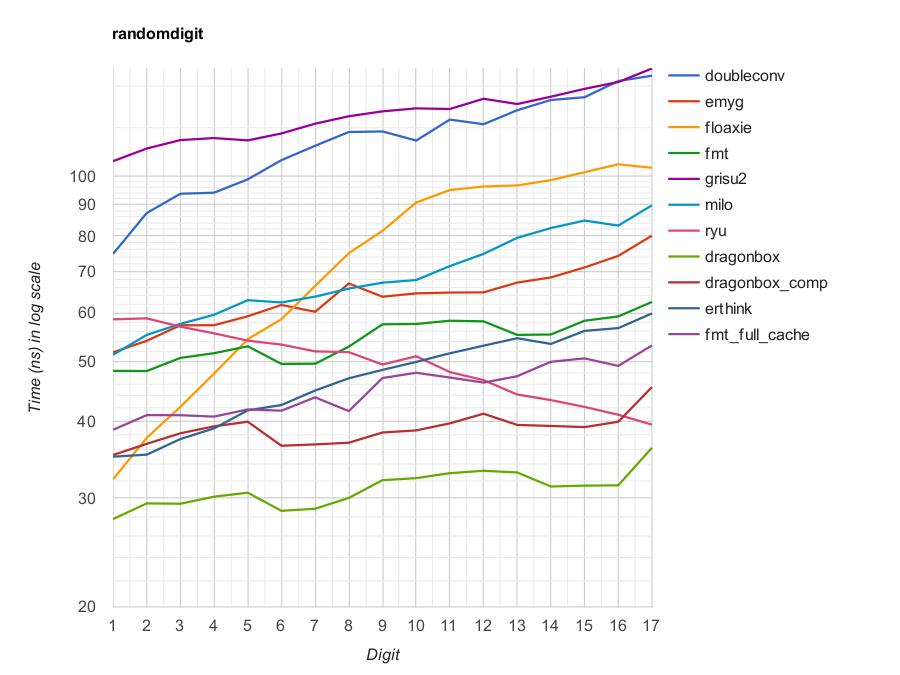
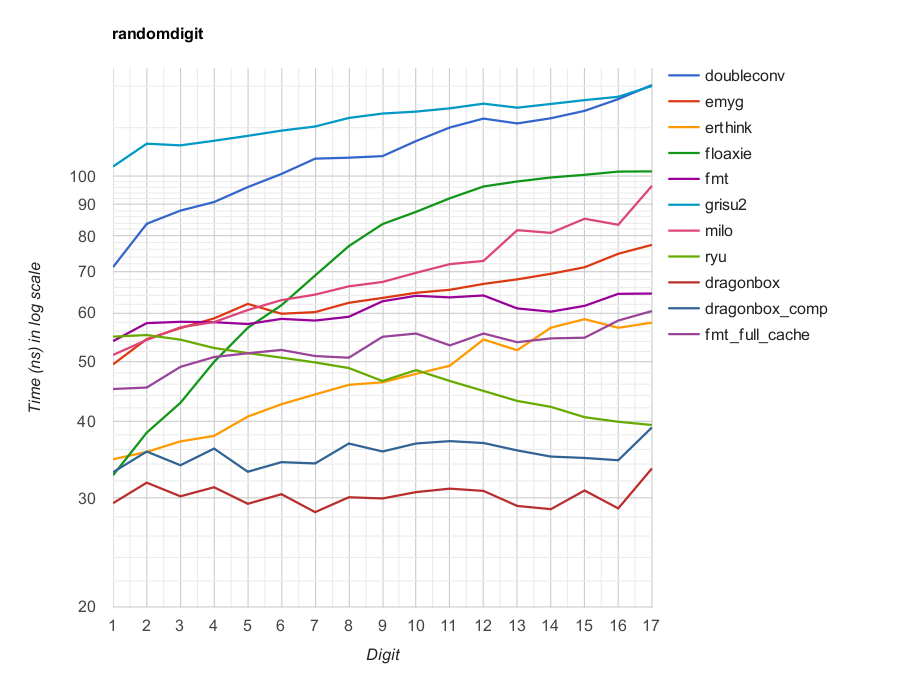
Rerun Milo's benchmark

diff --git a/other_files/unknown_win64_vc2019.html b/other_files/unknown_win64_vc2019.html
@@ -329,194 +329,194 @@ body { padding-top: 70px; }
 <h2>Source CSV</h2>
 <textarea id="textInput" class="form-control" rows="5" readonly>
   Type,Function,Digit,Time(ns)
-  randomdigit,doubleconv,1,78.248000
-  randomdigit,doubleconv,2,87.786000
-  randomdigit,doubleconv,3,96.891000
-  randomdigit,doubleconv,4,100.587000
-  randomdigit,doubleconv,5,107.253000
-  randomdigit,doubleconv,6,112.505000
-  randomdigit,doubleconv,7,110.873000
-  randomdigit,doubleconv,8,121.599000
-  randomdigit,doubleconv,9,127.222000
-  randomdigit,doubleconv,10,120.216000
-  randomdigit,doubleconv,11,122.378000
-  randomdigit,doubleconv,12,126.211000
-  randomdigit,doubleconv,13,134.482000
-  randomdigit,doubleconv,14,130.679000
-  randomdigit,doubleconv,15,137.201000
-  randomdigit,doubleconv,16,135.868000
-  randomdigit,doubleconv,17,147.426000
-  randomdigit,emyg,1,54.607000
-  randomdigit,emyg,2,60.282000
-  randomdigit,emyg,3,64.284000
-  randomdigit,emyg,4,67.421000
-  randomdigit,emyg,5,71.130000
-  randomdigit,emyg,6,71.934000
-  randomdigit,emyg,7,72.995000
-  randomdigit,emyg,8,74.277000
-  randomdigit,emyg,9,71.909000
-  randomdigit,emyg,10,72.436000
-  randomdigit,emyg,11,76.755000
-  randomdigit,emyg,12,81.028000
-  randomdigit,emyg,13,82.898000
-  randomdigit,emyg,14,84.870000
-  randomdigit,emyg,15,86.607000
-  randomdigit,emyg,16,85.906000
-  randomdigit,emyg,17,89.630000
-  randomdigit,floaxie,1,30.275000
-  randomdigit,floaxie,2,37.139000
-  randomdigit,floaxie,3,41.356000
-  randomdigit,floaxie,4,47.739000
-  randomdigit,floaxie,5,54.310000
-  randomdigit,floaxie,6,60.585000
-  randomdigit,floaxie,7,67.047000
-  randomdigit,floaxie,8,75.157000
-  randomdigit,floaxie,9,81.545000
-  randomdigit,floaxie,10,91.129000
-  randomdigit,floaxie,11,95.449000
-  randomdigit,floaxie,12,97.786000
-  randomdigit,floaxie,13,98.923000
-  randomdigit,floaxie,14,102.212000
-  randomdigit,floaxie,15,104.720000
-  randomdigit,floaxie,16,106.440000
-  randomdigit,floaxie,17,107.640000
-  randomdigit,fmt,1,50.081000
-  randomdigit,fmt,2,52.360000
-  randomdigit,fmt,3,54.191000
-  randomdigit,fmt,4,53.228000
-  randomdigit,fmt,5,55.436000
-  randomdigit,fmt,6,55.432000
-  randomdigit,fmt,7,56.193000
-  randomdigit,fmt,8,56.585000
-  randomdigit,fmt,9,61.277000
-  randomdigit,fmt,10,61.476000
-  randomdigit,fmt,11,62.170000
-  randomdigit,fmt,12,62.040000
-  randomdigit,fmt,13,61.326000
-  randomdigit,fmt,14,60.847000
-  randomdigit,fmt,15,61.845000
-  randomdigit,fmt,16,61.785000
-  randomdigit,fmt,17,62.770000
-  randomdigit,grisu2,1,107.181000
-  randomdigit,grisu2,2,122.045000
-  randomdigit,grisu2,3,123.263000
-  randomdigit,grisu2,4,126.745000
-  randomdigit,grisu2,5,129.433000
-  randomdigit,grisu2,6,133.902000
-  randomdigit,grisu2,7,136.087000
-  randomdigit,grisu2,8,133.842000
-  randomdigit,grisu2,9,133.445000
-  randomdigit,grisu2,10,136.056000
-  randomdigit,grisu2,11,142.027000
-  randomdigit,grisu2,12,145.407000
-  randomdigit,grisu2,13,148.398000
-  randomdigit,grisu2,14,148.463000
-  randomdigit,grisu2,15,152.806000
-  randomdigit,grisu2,16,148.089000
-  randomdigit,grisu2,17,161.131000
-  randomdigit,milo,1,56.954000
-  randomdigit,milo,2,59.823000
-  randomdigit,milo,3,63.965000
-  randomdigit,milo,4,67.376000
-  randomdigit,milo,5,70.089000
-  randomdigit,milo,6,71.473000
-  randomdigit,milo,7,73.496000
-  randomdigit,milo,8,75.241000
-  randomdigit,milo,9,77.479000
-  randomdigit,milo,10,79.484000
-  randomdigit,milo,11,81.746000
-  randomdigit,milo,12,84.608000
-  randomdigit,milo,13,83.937000
-  randomdigit,milo,14,90.417000
-  randomdigit,milo,15,91.714000
-  randomdigit,milo,16,93.463000
-  randomdigit,milo,17,100.931000
-  randomdigit,ryu,1,63.494000
-  randomdigit,ryu,2,65.584000
-  randomdigit,ryu,3,66.304000
-  randomdigit,ryu,4,67.621000
-  randomdigit,ryu,5,67.229000
-  randomdigit,ryu,6,64.859000
-  randomdigit,ryu,7,57.722000
-  randomdigit,ryu,8,55.798000
-  randomdigit,ryu,9,53.404000
-  randomdigit,ryu,10,53.931000
-  randomdigit,ryu,11,50.790000
-  randomdigit,ryu,12,49.859000
-  randomdigit,ryu,13,45.737000
-  randomdigit,ryu,14,44.523000
-  randomdigit,ryu,15,43.002000
-  randomdigit,ryu,16,41.881000
-  randomdigit,ryu,17,41.513000
-  randomdigit,dragonbox,1,38.834000
-  randomdigit,dragonbox,2,41.602000
-  randomdigit,dragonbox,3,41.144000
-  randomdigit,dragonbox,4,41.785000
-  randomdigit,dragonbox,5,41.222000
-  randomdigit,dragonbox,6,40.468000
-  randomdigit,dragonbox,7,39.892000
-  randomdigit,dragonbox,8,40.635000
-  randomdigit,dragonbox,9,43.644000
-  randomdigit,dragonbox,10,46.040000
-  randomdigit,dragonbox,11,43.418000
-  randomdigit,dragonbox,12,43.224000
-  randomdigit,dragonbox,13,40.895000
-  randomdigit,dragonbox,14,40.120000
-  randomdigit,dragonbox,15,40.031000
-  randomdigit,dragonbox,16,39.571000
-  randomdigit,dragonbox,17,41.982000
-  randomdigit,dragonbox_comp,1,52.065000
-  randomdigit,dragonbox_comp,2,51.120000
-  randomdigit,dragonbox_comp,3,50.225000
-  randomdigit,dragonbox_comp,4,50.120000
-  randomdigit,dragonbox_comp,5,52.864000
-  randomdigit,dragonbox_comp,6,53.753000
-  randomdigit,dragonbox_comp,7,53.303000
-  randomdigit,dragonbox_comp,8,53.987000
-  randomdigit,dragonbox_comp,9,54.235000
-  randomdigit,dragonbox_comp,10,52.743000
-  randomdigit,dragonbox_comp,11,54.604000
-  randomdigit,dragonbox_comp,12,50.722000
-  randomdigit,dragonbox_comp,13,49.756000
-  randomdigit,dragonbox_comp,14,49.975000
-  randomdigit,dragonbox_comp,15,50.353000
-  randomdigit,dragonbox_comp,16,49.303000
-  randomdigit,dragonbox_comp,17,50.718000
-  randomdigit,erthink,1,36.401000
-  randomdigit,erthink,2,36.241000
-  randomdigit,erthink,3,38.794000
-  randomdigit,erthink,4,41.113000
-  randomdigit,erthink,5,43.452000
-  randomdigit,erthink,6,45.907000
-  randomdigit,erthink,7,45.254000
-  randomdigit,erthink,8,48.015000
-  randomdigit,erthink,9,49.493000
-  randomdigit,erthink,10,51.155000
-  randomdigit,erthink,11,51.849000
-  randomdigit,erthink,12,54.308000
-  randomdigit,erthink,13,56.612000
-  randomdigit,erthink,14,58.143000
-  randomdigit,erthink,15,60.695000
-  randomdigit,erthink,16,61.836000
-  randomdigit,erthink,17,64.775000
-  randomdigit,fmt_full_cache,1,44.309000
-  randomdigit,fmt_full_cache,2,44.400000
-  randomdigit,fmt_full_cache,3,44.033000
-  randomdigit,fmt_full_cache,4,44.729000
-  randomdigit,fmt_full_cache,5,46.192000
-  randomdigit,fmt_full_cache,6,45.905000
-  randomdigit,fmt_full_cache,7,47.828000
-  randomdigit,fmt_full_cache,8,48.575000
-  randomdigit,fmt_full_cache,9,51.662000
-  randomdigit,fmt_full_cache,10,52.107000
-  randomdigit,fmt_full_cache,11,52.633000
-  randomdigit,fmt_full_cache,12,52.016000
-  randomdigit,fmt_full_cache,13,52.989000
-  randomdigit,fmt_full_cache,14,53.807000
-  randomdigit,fmt_full_cache,15,52.576000
-  randomdigit,fmt_full_cache,16,53.077000
-  randomdigit,fmt_full_cache,17,58.567000
-   </textarea>
+randomdigit,doubleconv,1,71.223000
+randomdigit,doubleconv,2,83.739000
+randomdigit,doubleconv,3,87.977000
+randomdigit,doubleconv,4,90.844000
+randomdigit,doubleconv,5,96.071000
+randomdigit,doubleconv,6,100.920000
+randomdigit,doubleconv,7,106.860000
+randomdigit,doubleconv,8,107.243000
+randomdigit,doubleconv,9,107.882000
+randomdigit,doubleconv,10,114.161000
+randomdigit,doubleconv,11,120.089000
+randomdigit,doubleconv,12,124.157000
+randomdigit,doubleconv,13,121.921000
+randomdigit,doubleconv,14,124.308000
+randomdigit,doubleconv,15,127.801000
+randomdigit,doubleconv,16,133.545000
+randomdigit,doubleconv,17,140.764000
+randomdigit,emyg,1,49.488000
+randomdigit,emyg,2,54.384000
+randomdigit,emyg,3,56.676000
+randomdigit,emyg,4,58.776000
+randomdigit,emyg,5,62.045000
+randomdigit,emyg,6,59.798000
+randomdigit,emyg,7,60.171000
+randomdigit,emyg,8,62.302000
+randomdigit,emyg,9,63.449000
+randomdigit,emyg,10,64.685000
+randomdigit,emyg,11,65.412000
+randomdigit,emyg,12,66.872000
+randomdigit,emyg,13,68.013000
+randomdigit,emyg,14,69.450000
+randomdigit,emyg,15,71.172000
+randomdigit,emyg,16,74.847000
+randomdigit,emyg,17,77.391000
+randomdigit,erthink,1,34.692000
+randomdigit,erthink,2,35.652000
+randomdigit,erthink,3,37.090000
+randomdigit,erthink,4,37.854000
+randomdigit,erthink,5,40.699000
+randomdigit,erthink,6,42.624000
+randomdigit,erthink,7,44.213000
+randomdigit,erthink,8,45.829000
+randomdigit,erthink,9,46.268000
+randomdigit,erthink,10,47.757000
+randomdigit,erthink,11,49.229000
+randomdigit,erthink,12,54.313000
+randomdigit,erthink,13,52.171000
+randomdigit,erthink,14,56.760000
+randomdigit,erthink,15,58.601000
+randomdigit,erthink,16,56.738000
+randomdigit,erthink,17,57.844000
+randomdigit,floaxie,1,32.675000
+randomdigit,floaxie,2,38.321000
+randomdigit,floaxie,3,42.846000
+randomdigit,floaxie,4,49.954000
+randomdigit,floaxie,5,56.737000
+randomdigit,floaxie,6,61.745000
+randomdigit,floaxie,7,69.012000
+randomdigit,floaxie,8,77.025000
+randomdigit,floaxie,9,83.648000
+randomdigit,floaxie,10,87.588000
+randomdigit,floaxie,11,92.134000
+randomdigit,floaxie,12,96.296000
+randomdigit,floaxie,13,98.109000
+randomdigit,floaxie,14,99.591000
+randomdigit,floaxie,15,100.592000
+randomdigit,floaxie,16,101.807000
+randomdigit,floaxie,17,101.887000
+randomdigit,fmt,1,53.977000
+randomdigit,fmt,2,57.743000
+randomdigit,fmt,3,58.027000
+randomdigit,fmt,4,57.938000
+randomdigit,fmt,5,57.543000
+randomdigit,fmt,6,58.663000
+randomdigit,fmt,7,58.296000
+randomdigit,fmt,8,59.124000
+randomdigit,fmt,9,62.657000
+randomdigit,fmt,10,63.963000
+randomdigit,fmt,11,63.576000
+randomdigit,fmt,12,64.037000
+randomdigit,fmt,13,61.003000
+randomdigit,fmt,14,60.267000
+randomdigit,fmt,15,61.596000
+randomdigit,fmt,16,64.429000
+randomdigit,fmt,17,64.504000
+randomdigit,grisu2,1,103.766000
+randomdigit,grisu2,2,113.021000
+randomdigit,grisu2,3,112.313000
+randomdigit,grisu2,4,114.278000
+randomdigit,grisu2,5,116.382000
+randomdigit,grisu2,6,118.683000
+randomdigit,grisu2,7,120.528000
+randomdigit,grisu2,8,124.457000
+randomdigit,grisu2,9,126.515000
+randomdigit,grisu2,10,127.444000
+randomdigit,grisu2,11,129.016000
+randomdigit,grisu2,12,131.285000
+randomdigit,grisu2,13,129.324000
+randomdigit,grisu2,14,131.143000
+randomdigit,grisu2,15,133.030000
+randomdigit,grisu2,16,134.716000
+randomdigit,grisu2,17,140.260000
+randomdigit,milo,1,51.258000
+randomdigit,milo,2,54.217000
+randomdigit,milo,3,56.843000
+randomdigit,milo,4,57.965000
+randomdigit,milo,5,60.638000
+randomdigit,milo,6,62.935000
+randomdigit,milo,7,64.241000
+randomdigit,milo,8,66.264000
+randomdigit,milo,9,67.355000
+randomdigit,milo,10,69.715000
+randomdigit,milo,11,72.008000
+randomdigit,milo,12,72.875000
+randomdigit,milo,13,81.763000
+randomdigit,milo,14,80.948000
+randomdigit,milo,15,85.340000
+randomdigit,milo,16,83.437000
+randomdigit,milo,17,96.519000
+randomdigit,ryu,1,54.887000
+randomdigit,ryu,2,55.220000
+randomdigit,ryu,3,54.280000
+randomdigit,ryu,4,52.602000
+randomdigit,ryu,5,51.612000
+randomdigit,ryu,6,50.740000
+randomdigit,ryu,7,49.837000
+randomdigit,ryu,8,48.804000
+randomdigit,ryu,9,46.491000
+randomdigit,ryu,10,48.427000
+randomdigit,ryu,11,46.493000
+randomdigit,ryu,12,44.799000
+randomdigit,ryu,13,43.150000
+randomdigit,ryu,14,42.205000
+randomdigit,ryu,15,40.604000
+randomdigit,ryu,16,39.912000
+randomdigit,ryu,17,39.437000
+randomdigit,dragonbox,1,29.427000
+randomdigit,dragonbox,2,31.778000
+randomdigit,dragonbox,3,30.199000
+randomdigit,dragonbox,4,31.238000
+randomdigit,dragonbox,5,29.360000
+randomdigit,dragonbox,6,30.439000
+randomdigit,dragonbox,7,28.457000
+randomdigit,dragonbox,8,30.089000
+randomdigit,dragonbox,9,29.953000
+randomdigit,dragonbox,10,30.676000
+randomdigit,dragonbox,11,31.074000
+randomdigit,dragonbox,12,30.812000
+randomdigit,dragonbox,13,29.128000
+randomdigit,dragonbox,14,28.778000
+randomdigit,dragonbox,15,30.860000
+randomdigit,dragonbox,16,28.859000
+randomdigit,dragonbox,17,33.514000
+randomdigit,dragonbox_comp,1,33.047000
+randomdigit,dragonbox_comp,2,35.702000
+randomdigit,dragonbox_comp,3,33.917000
+randomdigit,dragonbox_comp,4,36.103000
+randomdigit,dragonbox_comp,5,33.100000
+randomdigit,dragonbox_comp,6,34.315000
+randomdigit,dragonbox_comp,7,34.149000
+randomdigit,dragonbox_comp,8,36.791000
+randomdigit,dragonbox_comp,9,35.710000
+randomdigit,dragonbox_comp,10,36.800000
+randomdigit,dragonbox_comp,11,37.123000
+randomdigit,dragonbox_comp,12,36.863000
+randomdigit,dragonbox_comp,13,35.854000
+randomdigit,dragonbox_comp,14,35.038000
+randomdigit,dragonbox_comp,15,34.857000
+randomdigit,dragonbox_comp,16,34.560000
+randomdigit,dragonbox_comp,17,39.080000
+randomdigit,fmt_full_cache,1,45.122000
+randomdigit,fmt_full_cache,2,45.366000
+randomdigit,fmt_full_cache,3,49.022000
+randomdigit,fmt_full_cache,4,50.854000
+randomdigit,fmt_full_cache,5,51.579000
+randomdigit,fmt_full_cache,6,52.227000
+randomdigit,fmt_full_cache,7,51.044000
+randomdigit,fmt_full_cache,8,50.727000
+randomdigit,fmt_full_cache,9,54.859000
+randomdigit,fmt_full_cache,10,55.533000
+randomdigit,fmt_full_cache,11,53.122000
+randomdigit,fmt_full_cache,12,55.535000
+randomdigit,fmt_full_cache,13,53.757000
+randomdigit,fmt_full_cache,14,54.531000
+randomdigit,fmt_full_cache,15,54.673000
+randomdigit,fmt_full_cache,16,58.299000
+randomdigit,fmt_full_cache,17,60.408000
+</textarea>
 </div>
 <div class="row" id="downloadDD" style="display: none">
 <div class="btn-group pull-right" >
